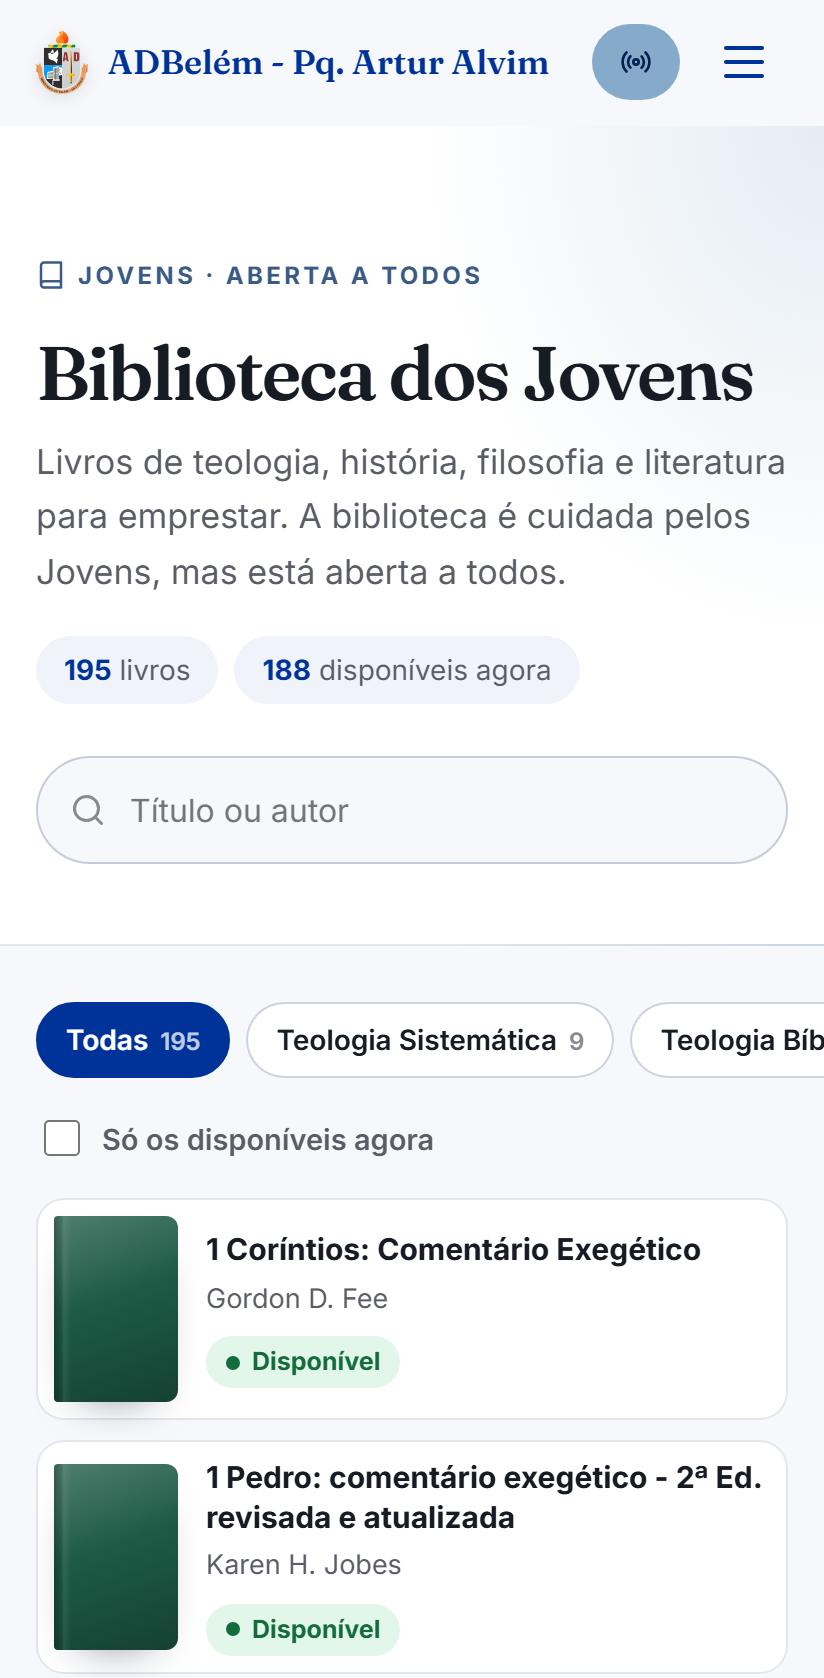
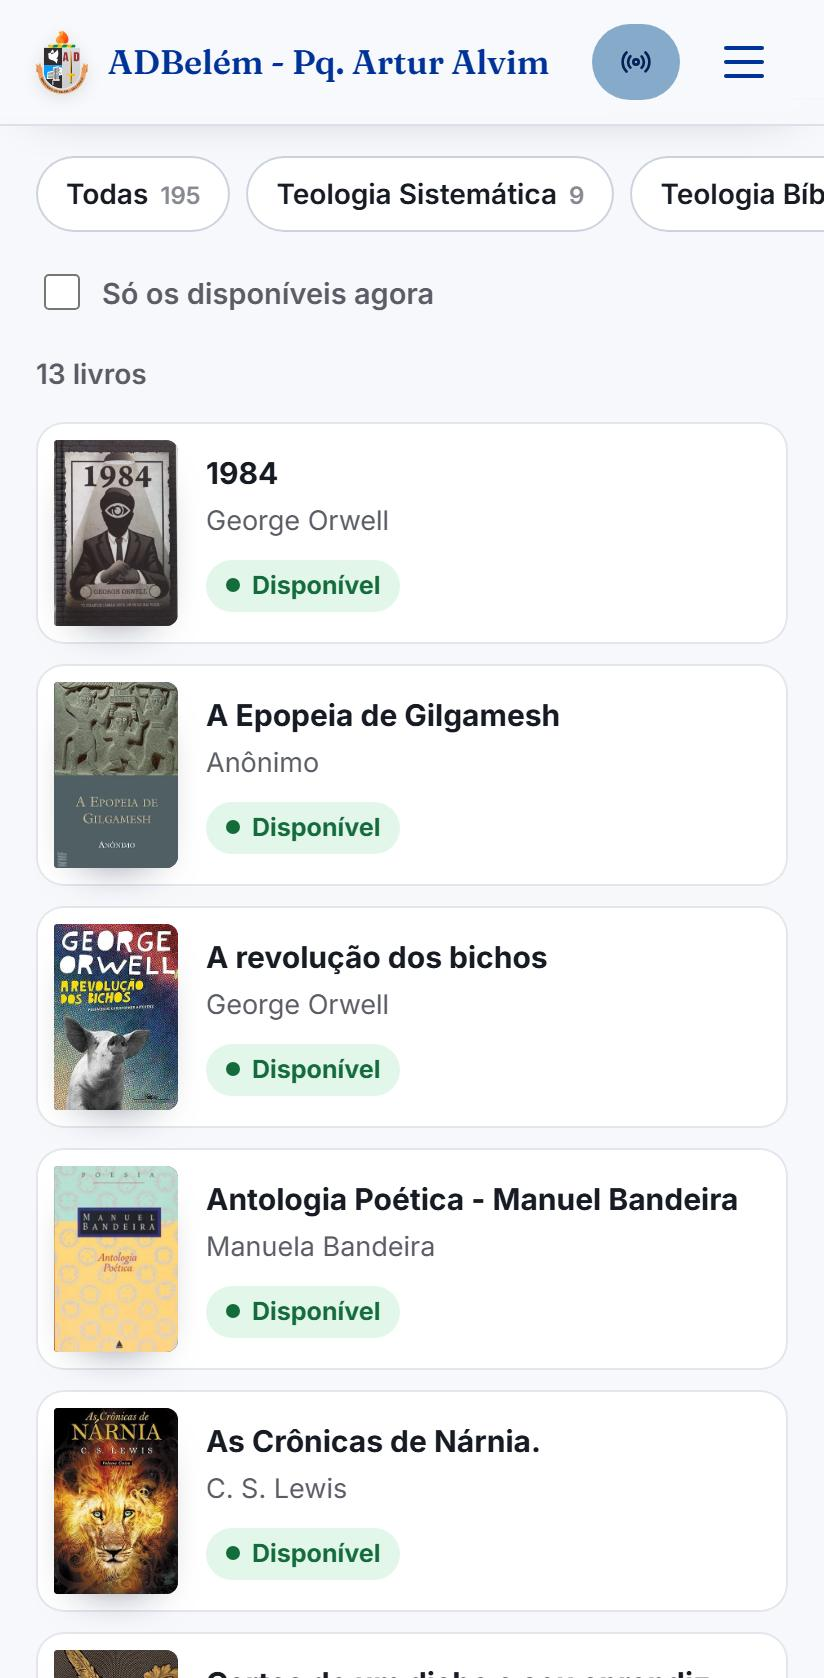
Biblioteca: capas dos livros e fotos novas no README
As 180 capas que faltavam vieram da coluna "Capa" da planilha da biblioteca
(imagem original de cada livro), reduzidas e guardadas no Storage do site;
as 15 que a equipe já tinha escolhido foram mantidas. O README ganhou as
fotos novas do acervo e a explicação de onde ficam as capas.

diff --git a/README.md b/README.md
@@ -237,6 +237,9 @@ ou "Entrar na fila de espera" (nome + WhatsApp, com consentimento).
   9 abas direto do Google (título, autor, categoria, sinopse, dono, empréstimos em andamento e
   fila). Pode rodar de novo: exemplares que já existem são pulados. O link da planilha não fica no
   código, porque ela tem nomes de quem pegou livros.
+- **Capas**: as capas vieram da coluna "Capa" da planilha (imagem original de cada livro), reduzidas
+  e guardadas no Storage do site (`images/biblioteca/capas/<id>.jpg`). Para livros novos, use no
+  painel "Foto da capa" (foto tirada no celular, já reduzida) ou "Buscar capa" (Open Library).
 - Pedidos concluídos ou cancelados são apagados pelo painel depois de 6 meses.
 
 ## Segurança
